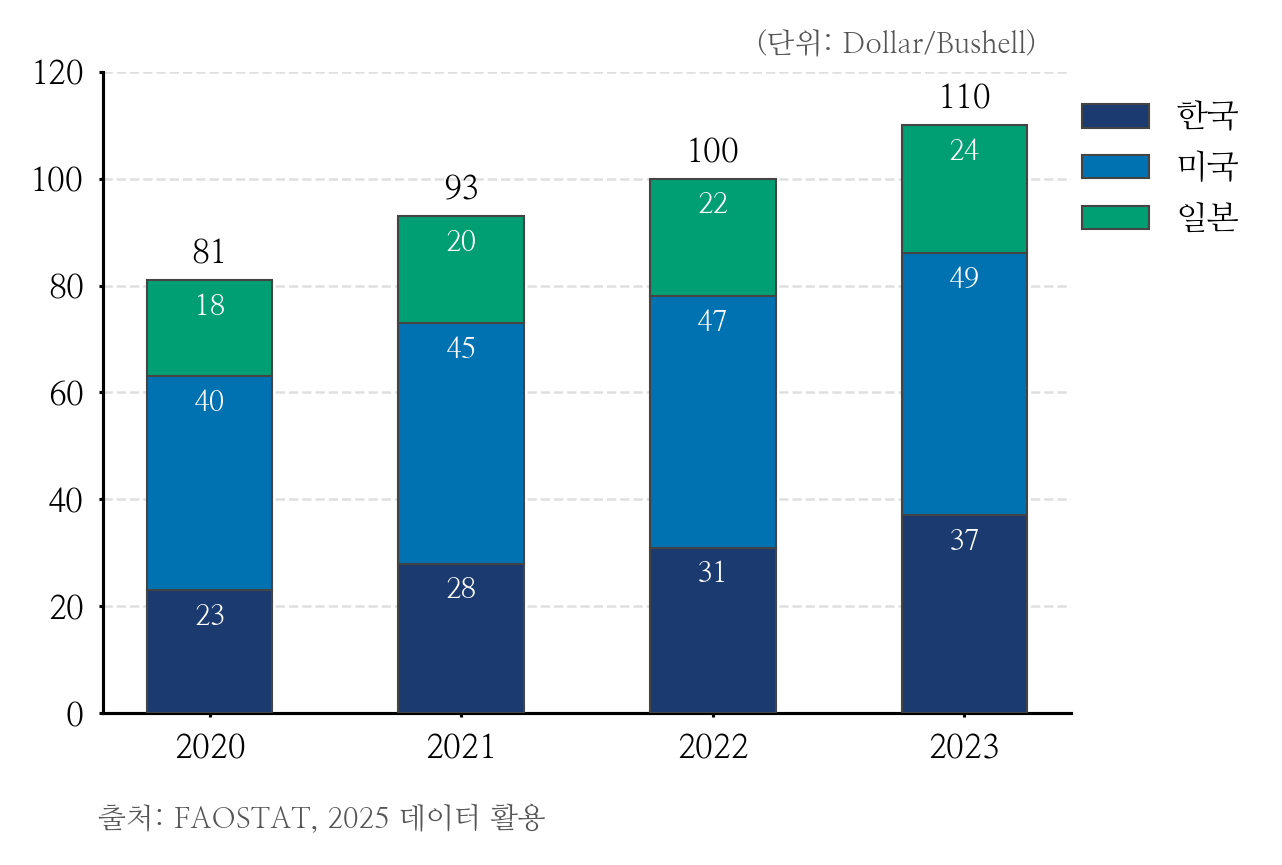
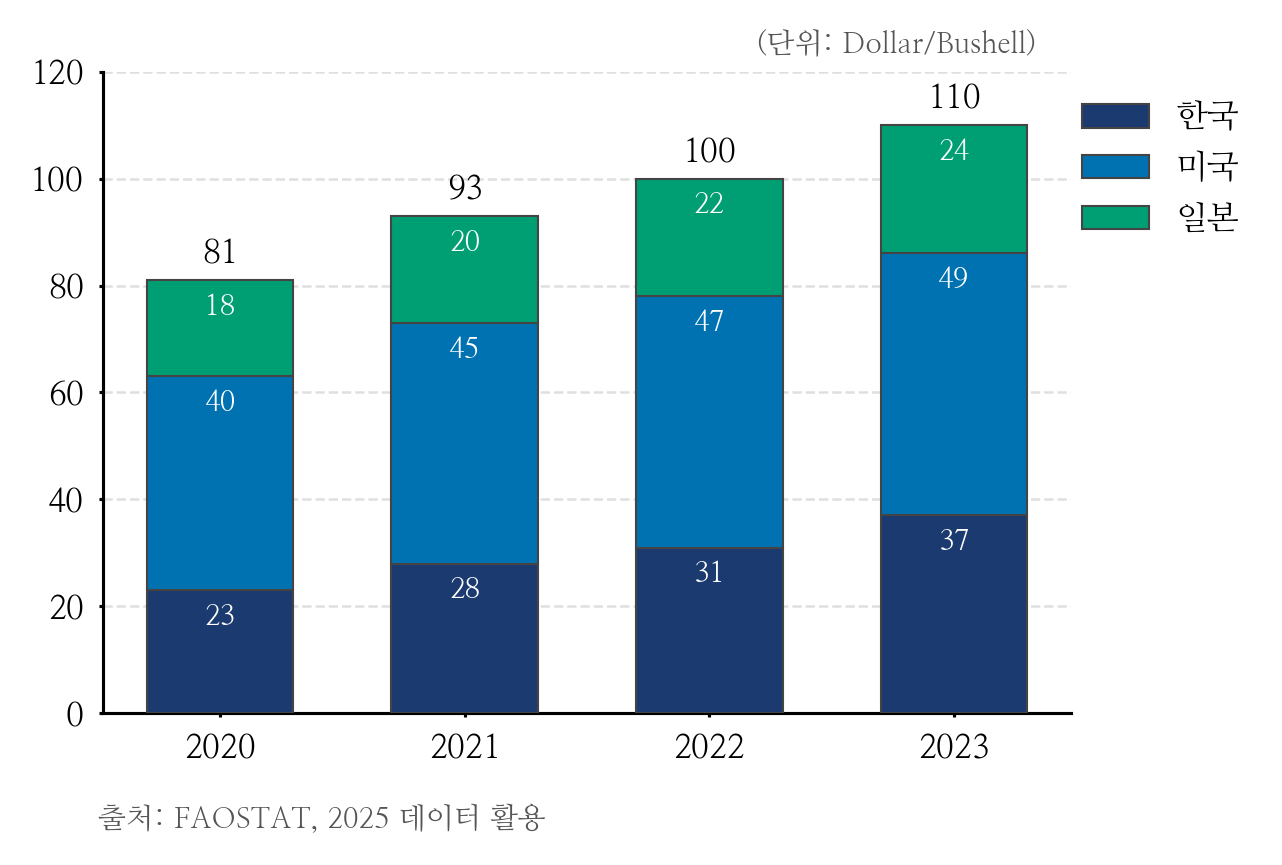
dd

diff --git a/graph/chart_bar_stacked.py b/graph/chart_bar_stacked.py
@@ -61,7 +61,7 @@ for i, col in enumerate(y_cols):
     vals = df[col].values
     ax.bar(idx, vals, bottom=bottom,
            color=colors[i % len(colors)],
-           edgecolor="#444", linewidth=0.5, width=0.5, label=col, zorder=3)
+           edgecolor="#444", linewidth=0.5, width=0.6, label=col, zorder=3)
     stack_values.append(vals.copy())
     bottom += vals
 
